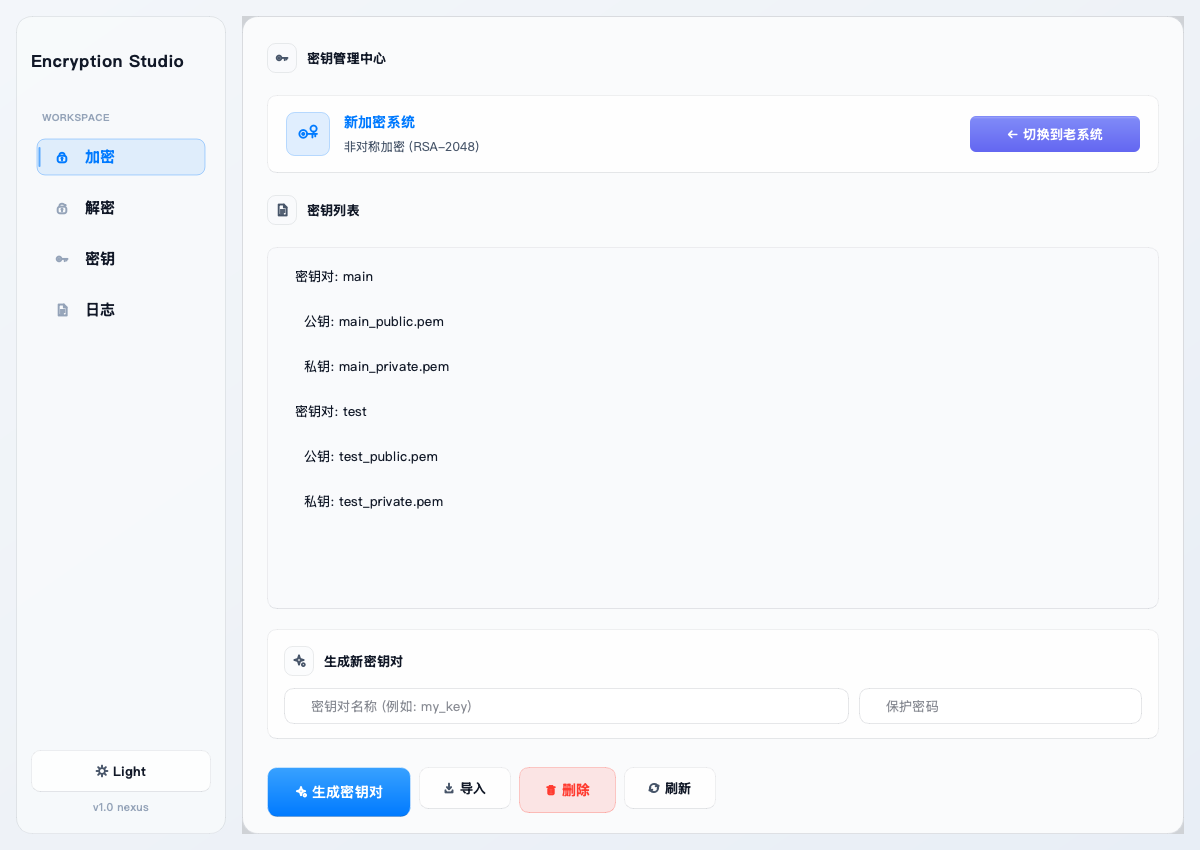
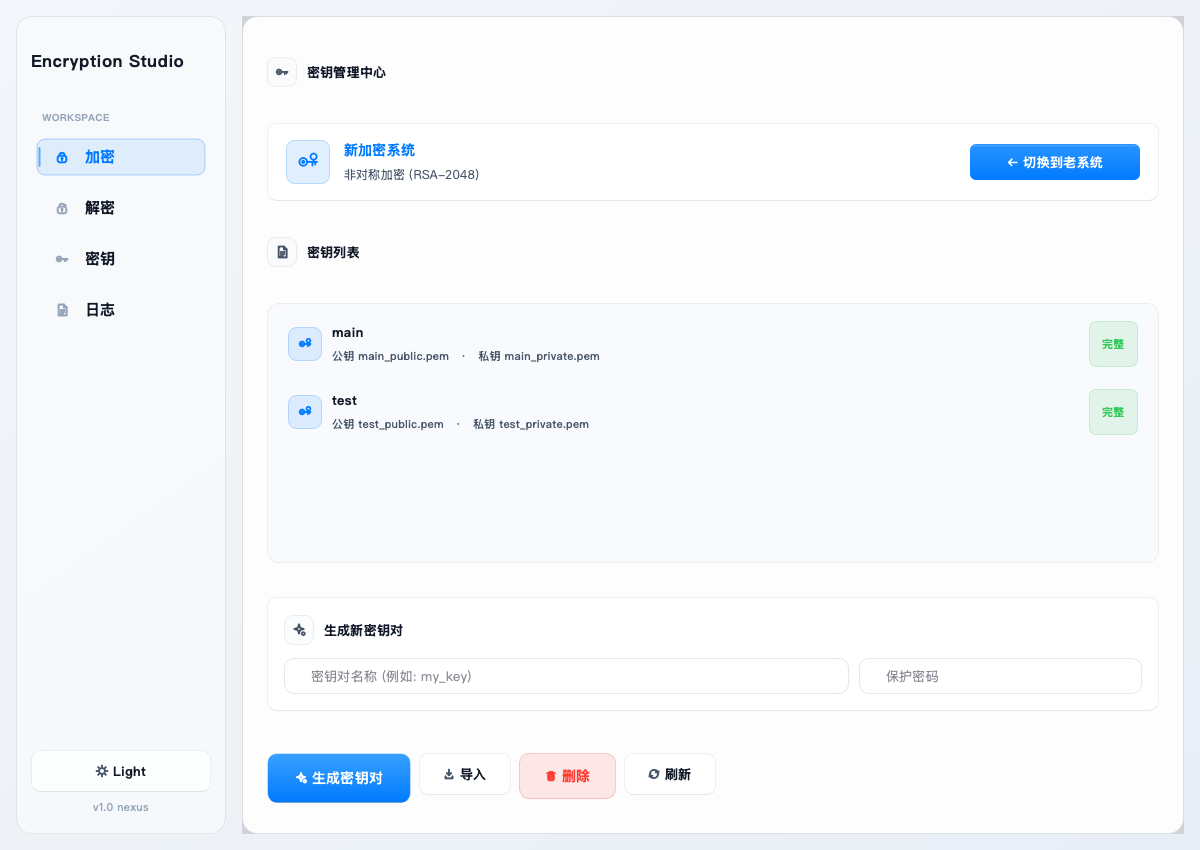
Polish UI and compact key list

diff --git a/ui/main_window.py b/ui/main_window.py
@@ -33,7 +33,7 @@ from PySide6.QtWidgets import (QMainWindow, QWidget, QVBoxLayout, QHBoxLayout,
                                QPushButton, QLabel, QFileDialog,
                                QGroupBox, QTextEdit, QLineEdit, QProgressBar,
                                QMessageBox, QListWidget, QAbstractItemView,
-                               QFrame, QStackedWidget, QApplication, QCheckBox,
+                               QListWidgetItem, QFrame, QStackedWidget, QApplication, QCheckBox,
                                QSplitter, QGraphicsDropShadowEffect, QSizePolicy,
                                QSystemTrayIcon, QMenu, QComboBox, QSpacerItem)
 from PySide6.QtCore import (QThread, Signal, Qt, QUrl, QPropertyAnimation,
@@ -50,7 +50,8 @@ from ui.components import (AnimatedSidebarButton, ModernButton, DragDropListWidg
                            CustomCheckBox, ThemeSelector, SmoothScrollArea,
                            DropDownComboBox, SystemSwitchButton, GlassProgressBar,
                            CleanStackedWidget, PageSurface, SectionHeader, IconBadge,
-                           TaskWorkspacePanel, InspectorSection, ExecutionFooter)
+                           TaskWorkspacePanel, InspectorSection, ExecutionFooter,
+                           KeyPairListRow)
 from ui.platform_fonts import get_monospace_font_qss, get_system_font_family, get_system_font_qss
 from ui.utils import ensure_long_path, format_size, get_drive_root
 
@@ -1287,9 +1288,11 @@ class MainWindow(QMainWindow):
         v.addWidget(self.key_list_header)
 
         self.key_list = QListWidget()
+        self.key_list.setObjectName("KeyPairList")
         self.key_list.setSelectionMode(QAbstractItemView.SingleSelection)
-        self.key_list.setMinimumHeight(280)  # 增加密钥列表高度
-        v.addWidget(self.key_list, 1)  # 添加拉伸因子，让列表占据更多空间
+        self.key_list.setMinimumHeight(180)
+        self.key_list.setMaximumHeight(260)
+        v.addWidget(self.key_list)
 
         # 老系统提示
         self.old_system_widget = QFrame()
@@ -1306,6 +1309,7 @@ class MainWindow(QMainWindow):
         # 新系统输入框 (紧凑布局)
         self.new_system_widget = QFrame()
         self.new_system_widget.setObjectName("KeyActionPanel")
+        self.new_system_widget.setMaximumHeight(114)
         v_new = QVBoxLayout(self.new_system_widget)
         v_new.setContentsMargins(16, 14, 16, 14)
         v_new.setSpacing(10)
@@ -1497,16 +1501,16 @@ class MainWindow(QMainWindow):
         }}
 
         QFrame#ContentPanel {{
-            background: {t['panel']};
+            background: {t['panel_elevated']};
             border: 1px solid {t['glass_border']};
             border-bottom: 1px solid {t['glass_border_subtle']};
             border-radius: {t['radius_lg']};
         }}
         QFrame#TaskWorkspacePanel {{
-            background: {t['panel']};
+            background: {t['panel_elevated']};
             border: 1px solid {t['glass_border']};
-            border-bottom: 1px solid {t['border_dark']};
-            border-radius: 10px;
+            border-bottom: 1px solid {t['glass_border_subtle']};
+            border-radius: 14px;
         }}
         QLabel#WorkspaceTitle {{
             color: {t['fg']};
@@ -1534,10 +1538,10 @@ class MainWindow(QMainWindow):
         }}
 
         QFrame#ConfigPanel {{
-            background: {t['config_panel']};
+            background: {t['panel_elevated']};
             border: 1px solid {t['config_panel_border']};
             border-bottom: 1px solid {t['glass_border_subtle']};
-            border-radius: 10px;
+            border-radius: 14px;
         }}
         QWidget#ConfigTitleArea {{
             background: transparent;
@@ -1677,9 +1681,9 @@ class MainWindow(QMainWindow):
 
         QFrame#ConfigSection,
         QFrame#InspectorSection {{
-            background: {t['card_bg']};
+            background: {t['surface']};
             border: 1px solid {t['glass_border_subtle']};
-            border-bottom: 1px solid {t['border_dark']};
+            border-bottom: 1px solid {t['glass_border_subtle']};
             border-radius: 10px;
         }}
 
@@ -1725,11 +1729,22 @@ class MainWindow(QMainWindow):
             border-radius: 12px;
             padding: 8px;
         }}
+        QListWidget#KeyPairList {{
+            background: {t['list_bg']};
+            border: 1px solid {t['glass_border_subtle']};
+            border-radius: 12px;
+            padding: 6px;
+        }}
         QListWidget::item {{
             border-radius: 8px;
             padding: 10px 14px;
             margin: 3px 4px;
             color: {t['fg']};
+        }}
+        QListWidget#KeyPairList::item {{
+            padding: 0;
+            margin: 3px 2px;
+            border-radius: 10px;
         }}
         QListWidget::item:selected {{
             background: {t['list_item_selected']};
@@ -1819,6 +1834,36 @@ class MainWindow(QMainWindow):
             padding: 0;
             background: transparent;
             border: none;
+        }}
+        QFrame#KeyPairListRow {{
+            background: transparent;
+            border: none;
+        }}
+        QLabel#KeyPairName {{
+            color: {t['fg']};
+            font-size: 13px;
+            font-weight: 800;
+        }}
+        QLabel#KeyPairMeta {{
+            color: {t['fg_secondary']};
+            font-size: 11px;
+            font-weight: 500;
+        }}
+        QLabel#KeyPairStatus {{
+            border-radius: 7px;
+            padding: 4px 9px;
+            font-size: 11px;
+            font-weight: 800;
+        }}
+        QLabel#KeyPairStatus[state="ready"] {{
+            color: {t['success']};
+            background: {t['success_light']};
+            border: 1px solid rgba(52, 199, 89, 0.22);
+        }}
+        QLabel#KeyPairStatus[state="warning"] {{
+            color: {t['warning']};
+            background: rgba(255, 159, 10, 0.12);
+            border: 1px solid rgba(255, 159, 10, 0.24);
         }}
 
         QTextEdit#LogTextEdit {{
@@ -2294,11 +2339,12 @@ class MainWindow(QMainWindow):
                     key_pairs[key_name]['public'] = f
 
             for key_name, files in sorted(key_pairs.items()):
-                self.key_list.addItem(f"密钥对: {key_name}")
-                if files['public']:
-                    self.key_list.addItem(f"  公钥: {files['public']}")
-                if files['private']:
-                    self.key_list.addItem(f"  私钥: {files['private']}")
+                item = QListWidgetItem()
+                item.setData(Qt.UserRole, key_name)
+                item.setSizeHint(QSize(0, 68))
+                row = KeyPairListRow(key_name, files['public'], files['private'])
+                self.key_list.addItem(item)
+                self.key_list.setItemWidget(item, row)
 
             sys_logger.log(f"[新系统] 刷新密钥列表，共 {len(key_pairs)} 个密钥对")
         else:
@@ -2498,12 +2544,14 @@ class MainWindow(QMainWindow):
         if not selected:
             return QMessageBox.warning(self, "提示", "请先选择要删除的密钥对")
 
-        key_name = selected.text().strip()
-        if key_name.startswith("密钥对:"):
-            key_name = key_name.split(":", 1)[1].strip()
-        elif key_name.startswith(("公钥:", "私钥:")):
-            key_name = key_name.split(":", 1)[1].strip()
-            key_name = key_name.replace("_public.pem", "").replace("_private.pem", "")
+        key_name = selected.data(Qt.UserRole)
+        if not key_name:
+            key_name = selected.text().strip()
+            if key_name.startswith("密钥对:"):
+                key_name = key_name.split(":", 1)[1].strip()
+            elif key_name.startswith(("公钥:", "私钥:")):
+                key_name = key_name.split(":", 1)[1].strip()
+                key_name = key_name.replace("_public.pem", "").replace("_private.pem", "")
         reply = QMessageBox.question(self, "确认删除", f"确定要删除密钥对 {key_name} 吗？\n\n将同时删除私钥和公钥文件！")
         if reply == QMessageBox.Yes:
             try:

diff --git a/ui/components.py b/ui/components.py
@@ -265,6 +265,44 @@ class InspectorSection(QFrame):
         return self._content_layout
 
 
+class KeyPairListRow(QFrame):
+    """Compact visual row for one RSA key pair in the key manager."""
+    def __init__(self, key_name, public_file=None, private_file=None, parent=None):
+        super().__init__(parent)
+        self.setObjectName("KeyPairListRow")
+        self.setMinimumHeight(60)
+
+        root = QHBoxLayout(self)
+        root.setContentsMargins(12, 8, 12, 8)
+        root.setSpacing(10)
+
+        root.addWidget(IconBadge("keypair", 34, self, accent=True))
+
+        text_box = QVBoxLayout()
+        text_box.setContentsMargins(0, 0, 0, 0)
+        text_box.setSpacing(2)
+
+        self.title_label = QLabel(key_name)
+        self.title_label.setObjectName("KeyPairName")
+        self.title_label.setToolTip(key_name)
+        text_box.addWidget(self.title_label)
+
+        public_text = public_file or "缺少公钥"
+        private_text = private_file or "缺少私钥"
+        self.meta_label = QLabel(f"公钥 {public_text}   ·   私钥 {private_text}")
+        self.meta_label.setObjectName("KeyPairMeta")
+        self.meta_label.setToolTip(f"公钥: {public_text}\n私钥: {private_text}")
+        text_box.addWidget(self.meta_label)
+
+        root.addLayout(text_box, 1)
+
+        ready = bool(public_file and private_file)
+        self.status_label = QLabel("完整" if ready else "缺失")
+        self.status_label.setObjectName("KeyPairStatus")
+        self.status_label.setProperty("state", "ready" if ready else "warning")
+        root.addWidget(self.status_label)
+
+
 class ExecutionFooter(QFrame):
     """Bottom execution area combining status, progress, and action stack."""
     def __init__(self, parent=None):
@@ -1264,19 +1302,26 @@ class DragDropListWidget(QListWidget):
             painter.setFont(font)
 
             # 图标 + 文字
-            icon_rect = QRectF(rect.center().x() - 20, rect.center().y() - 40, 40, 40)
-            painter.setPen(qcolor(self.theme_data.get('accent', '#6366F1')))
-            font_icon = QFont()
-            font_icon.setPointSize(28)
-            painter.setFont(font_icon)
-            painter.drawText(icon_rect, Qt.AlignCenter, "+")
+            icon_rect = QRectF(rect.center().x() - 22, rect.center().y() - 46, 44, 44)
+            icon_bg = qcolor(self.theme_data.get('accent_light', 'rgba(0, 122, 255, 0.12)'))
+            icon_border = qcolor(self.theme_data.get('sidebar_active_border', 'rgba(0, 122, 255, 0.28)'))
+            painter.setBrush(icon_bg)
+            painter.setPen(QPen(icon_border, 1.0))
+            painter.drawRoundedRect(icon_rect, 12, 12)
+            draw_icon(
+                painter,
+                "folder-plus",
+                icon_rect.adjusted(10, 10, -10, -10),
+                qcolor(self.theme_data.get('accent', '#007AFF')),
+                2.0,
+            )
 
             # 主文字
             painter.setPen(qcolor(self.theme_data.get('fg_secondary', 'rgba(0, 0, 0, 0.50)')))
             font_text = QFont(get_system_font_family(), 13)
             font_text.setWeight(QFont.Medium)
             painter.setFont(font_text)
-            text_rect = QRectF(rect.left(), rect.center().y() + 5, rect.width(), 30)
+            text_rect = QRectF(rect.left(), rect.center().y() + 8, rect.width(), 30)
             painter.drawText(text_rect, Qt.AlignCenter, "拖拽文件或文件夹到此处")
 
             # 副文字
@@ -1284,8 +1329,8 @@ class DragDropListWidget(QListWidget):
             font_sub.setWeight(QFont.Normal)
             painter.setFont(font_sub)
             painter.setPen(qcolor(self.theme_data.get('fg_tertiary', 'rgba(0, 0, 0, 0.35)')))
-            sub_rect = QRectF(rect.left(), rect.center().y() + 30, rect.width(), 25)
-            painter.drawText(sub_rect, Qt.AlignCenter, "支持批量添加，自动识别文件类型")
+            sub_rect = QRectF(rect.left(), rect.center().y() + 32, rect.width(), 25)
+            painter.drawText(sub_rect, Qt.AlignCenter, "支持批量添加，也可以使用下方按钮")
 
 
 class GlassInputField(QLineEdit):
@@ -1496,15 +1541,13 @@ class SystemSwitchButton(QPushButton):
         radius = 6.0
 
         # === 根据切换进度选择渐变颜色 ===
-        # 老系统 (0.0): 紫蓝色渐变 #818CF8 → #6366F1
-        # 新系统 (1.0): 粉色渐变 #F472B6 → #EC4899 (更鲜明的对比)
+        # 统一跟随主题 token，避免系统切换按钮脱离整体视觉体系。
         progress = self._switch_progress
 
-        # 插值计算颜色 - 统一使用主题色
-        old_start = QColor(129, 140, 248)   # #818CF8 (紫蓝)
-        old_end = QColor(99, 102, 241)       # #6366F1
-        new_start = QColor(244, 114, 182)   # #F472B6 (粉色)
-        new_end = QColor(236, 72, 153)      # #EC4899
+        old_start = qcolor(theme.get('accent_hover', '#2994FF'))
+        old_end = qcolor(theme.get('accent', '#007AFF'))
+        new_start = qcolor(theme.get('success', '#34C759')).lighter(112)
+        new_end = qcolor(theme.get('success', '#34C759'))
 
         start_color = QColor(
             int(old_start.red() * (1 - progress) + new_start.red() * progress),
